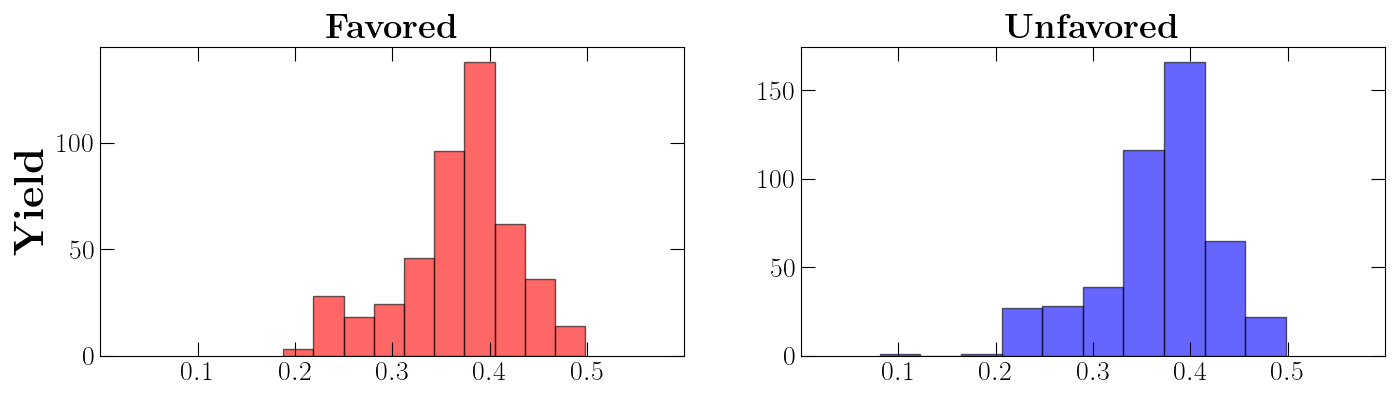
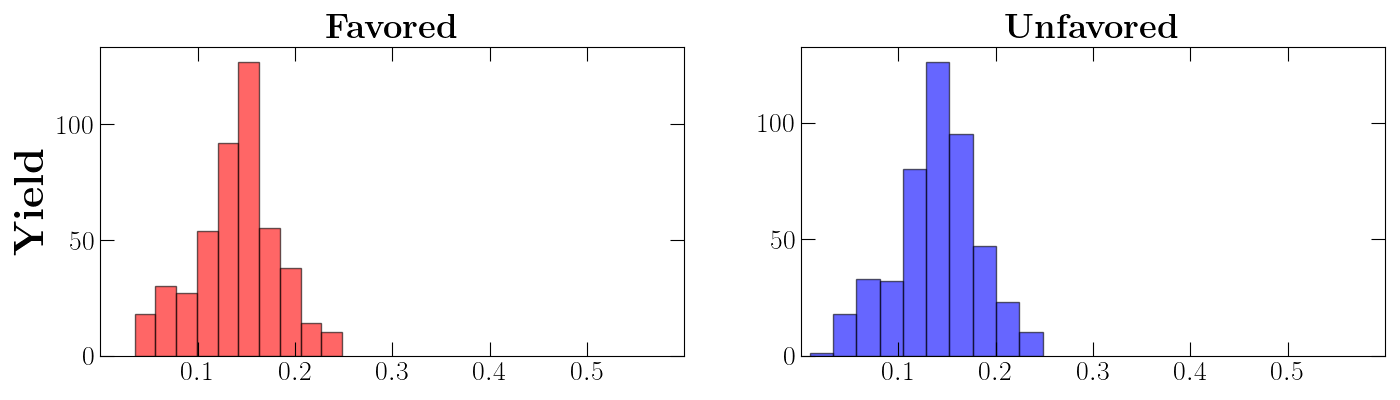
update

diff --git a/genlhapdf.py b/genlhapdf.py
@@ -10,7 +10,20 @@ from tools.tools import checkdir
 from tolhapdf import QCF
 QCF = QCF()
 
+from plot import plot_transversity,plot_collinspi,plot_widths
 
+def gen_lhapdf(wdir,dist,name,particle,description,index,authors,reference):
+
+    print('Generating LHAPDF files using directory %s for %s with the following information \n'%(args.directory,dist))
+
+    print('Name:        %s'%name)
+    print('Description: %s'%description)
+    print('Index:       %s'%index)
+    print('Authors:     %s'%authors)
+    print('Reference:   %s'%reference)
+    print('Particle:    %s'%particle)
+    info['particle']      = particle
+    QCF.gen_tables(args.directory,dist,name,info,info_only=False)
 
 if __name__=='__main__':
 
@@ -22,31 +35,10 @@ if __name__=='__main__':
     checkdir('%s/data'%args.directory)
     checkdir('%s/gallery'%args.directory)
 
-    #--generate transversity 
-    description = '...' 
-    index       = '1'
-    authors     = '...'
-    reference   = '...'
-    info = {}
-    info['<description>'] = description
-    info['<index>']       = index
-    info['<authors>']     = authors
-    info['reference']     = reference
-   
-    print('Generating LHAPDF files using directory %s for transversity with the following information \n'%(args.directory))
-
+    #--generate transversity
+    dist='transversity'
     name        = 'JAM22-transversity_proton_lo'
     particle    = '2212'
-    print('Name:        %s'%name)
-    print('Description: %s'%description)
-    print('Index:       %s'%index)
-    print('Authors:     %s'%authors)
-    print('Reference:   %s'%reference)
-    print('Particle:    %s'%particle)
-    info['particle']      = particle
-    QCF.gen_tables(args.directory,'transversity',name,info,info_only=False)
-
-    #--generate collins
     description = '...' 
     index       = '1'
     authors     = '...'
@@ -57,22 +49,32 @@ if __name__=='__main__':
     info['<authors>']     = authors
     info['reference']     = reference
 
-    print('Generating LHAPDF files using directory %s for Collins pion with the following information \n'%(args.directory))
+    gen_lhapdf(args.directory,dist,name,particle,description,index,authors,reference)   
 
+    plot_transversity(args.directory,name,Q2=4.0,mode=0)
+    plot_transversity(args.directory,name,Q2=4.0,mode=1)
+
+    #--generate collins
+    dist = 'collinspi'
     name        = 'JAM22-Collins_pion_lo'
     particle    = '211'
-    print('Name:        %s'%name)
-    print('Description: %s'%description)
-    print('Index:       %s'%index)
-    print('Authors:     %s'%authors)
-    print('Reference:   %s'%reference)
-    print('Particle:    %s'%particle)
-    info['particle']      = particle
-    QCF.gen_tables(args.directory,'collinspi',name,info,info_only=False)
+    description = '...' 
+    index       = '1'
+    authors     = '...'
+    reference   = '...'
+    info = {}
+    info['<description>'] = description
+    info['<index>']       = index
+    info['<authors>']     = authors
+    info['reference']     = reference
+
+    gen_lhapdf(args.directory,dist,name,particle,description,index,authors,reference)   
 
 
+    plot_collinspi(args.directory,name,Q2=4.0,mode=0)
+    plot_collinspi(args.directory,name,Q2=4.0,mode=1)
 
-
+    plot_widths(args.directory,name)
 
 
 

diff --git a/plot.py b/plot.py
@@ -239,6 +239,8 @@ def plot_widths(wdir,file_name):
     info = lhapdf.getPDFSet(file_name)
     widths_fav = info.get_entry('widths_fav')
     widths_unf = info.get_entry('widths_unf')
+    #--the list of widths is saved as a big string
+    #--the code below converts that giant string back into a list of floats
     widths_fav = widths_fav[1:][:len(widths_fav)-2]
     widths_unf = widths_fav[1:][:len(widths_unf)-2]
     widths_fav = widths_fav.split(',')
@@ -252,17 +254,17 @@ def plot_widths(wdir,file_name):
         num, exp = widths_unf[i].split('E')
         unf.append(float(num)*10**int(exp))
        
-    ax11.hist(fav,color='red' ,alpha=0.6,edgecolor='black')
-    ax12.hist(unf,color='blue',alpha=0.6,edgecolor='black')
+    ax11.hist(fav,color='red' ,alpha=0.6,edgecolor='black',bins=40)
+    ax12.hist(unf,color='blue',alpha=0.6,edgecolor='black',bins=40)
 
     for ax in [ax11,ax12]:
-          ax.set_xlim(0.0,0.6)
+          ax.set_xlim(0.0,0.3)
             
           ax.tick_params(axis='both', which='major', top=True, right=True, direction='in',labelsize=20,length=10)
           ax.tick_params(axis='both', which='minor', top=True, right=True, direction='in',labelsize=20,length=5)
-          ax.set_xticks([0.1,0.2,0.3,0.4,0.5])
-          minorLocator = MultipleLocator(0.1)
-          ax.xaxis.set_minor_locator(minorLocator)
+          ax.set_xticks([0.05,0.10,0.15,0.20,0.25])
+          #minorLocator = MultipleLocator(0.1)
+          #ax.xaxis.set_minor_locator(minorLocator)
 
     ax11.set_ylabel(r'\textrm{\textbf{Yield}}',size=30)
 
@@ -286,13 +288,13 @@ if __name__=="__main__":
 
     #--plot transversity
     file_name = 'JAM22-transversity_proton_lo'
-    plot_transversity(wdir,file_name,Q2,mode=0)
-    plot_transversity(wdir,file_name,Q2,mode=1)
+    #plot_transversity(wdir,file_name,Q2,mode=0)
+    #plot_transversity(wdir,file_name,Q2,mode=1)
 
-    #--plot Collins pion
+    ##--plot Collins pion
     file_name = 'JAM22-Collins_pion_lo'
-    plot_collinspi(wdir,file_name,Q2,mode=0)
-    plot_collinspi(wdir,file_name,Q2,mode=1)
+    #plot_collinspi(wdir,file_name,Q2,mode=0)
+    #plot_collinspi(wdir,file_name,Q2,mode=1)
 
     #--plot widths for Collins pion
     plot_widths(wdir,file_name)

diff --git a/tolhapdf.py b/tolhapdf.py
@@ -241,11 +241,11 @@ class QCF:
             lines.append(line)
         if dist=='collinspi':
             line='widths_fav: ['
-            for _ in self.widths_fav: line+=('%10.5e, '%_**0.5).upper()
+            for _ in self.widths_fav: line+=('%10.5e, '%_).upper()
             line=line.rstrip(',')+']'
             lines.append(line)
             line='widths_unf: ['
-            for _ in self.widths_unf: line+=('%10.5e, '%_**0.5).upper()
+            for _ in self.widths_unf: line+=('%10.5e, '%_).upper()
             line=line.rstrip(',')+']'
             lines.append(line)
 
@@ -293,13 +293,14 @@ class QCF:
         checkdir(wdir + '/data/')
         checkdir(wdir + '/data/%s/' % file_name)
 
+        print(dist)
         if dist=='transversity': self.widths_uv = []
         if dist=='collinspi':    self.widths_fav,self.widths_unf = [],[]
         for i in range(len(order)):
             if order[i][0] != 1: continue
             if order[i][1] != dist: continue
-            if order[i][2] == 'widths1_uv':   uv_idx  = i 
-            if order[i][2] == 'widths1_fav':  fav_idx = i 
+            if order[i][2] == 'widths1_uv':   uv_idx  = i
+            if order[i][2] == 'widths1_fav':  fav_idx = i
             if order[i][2] == 'widths1_ufav': unf_idx = i
 
 
